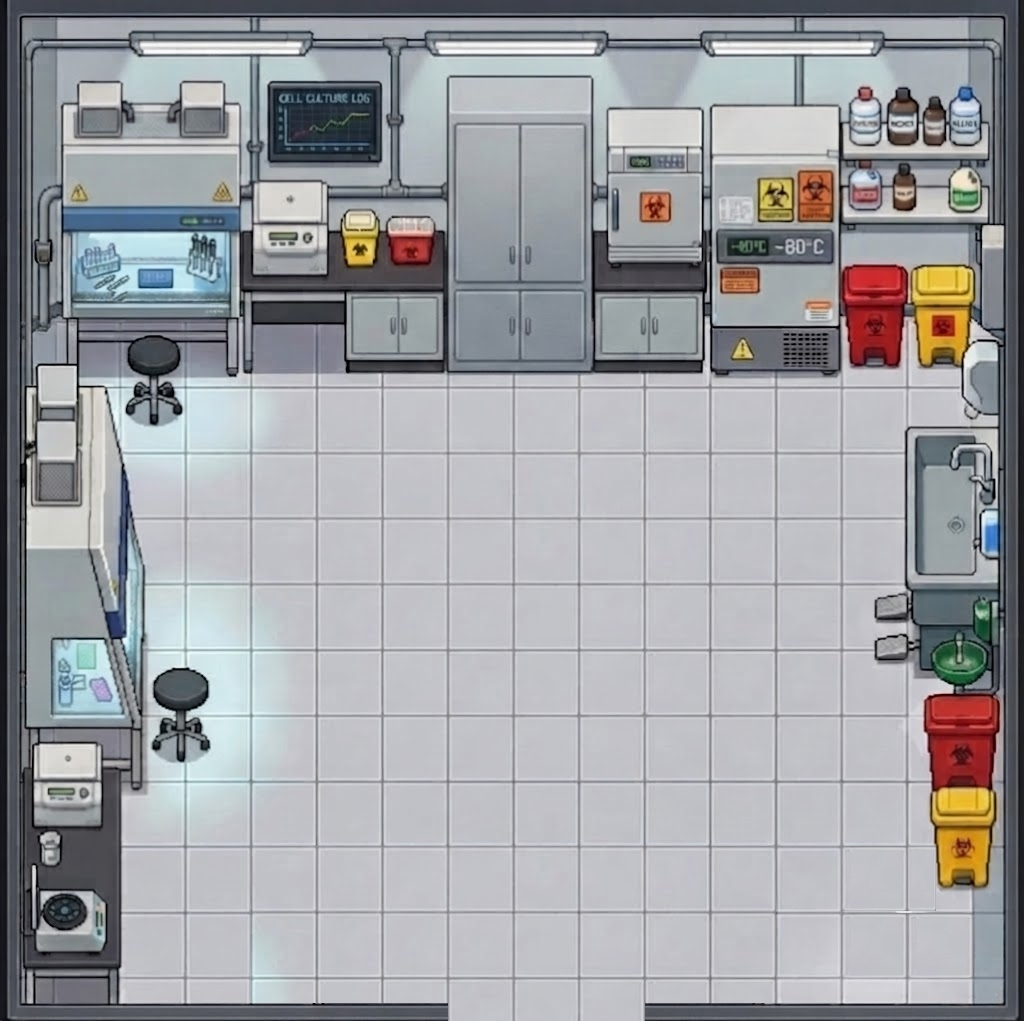
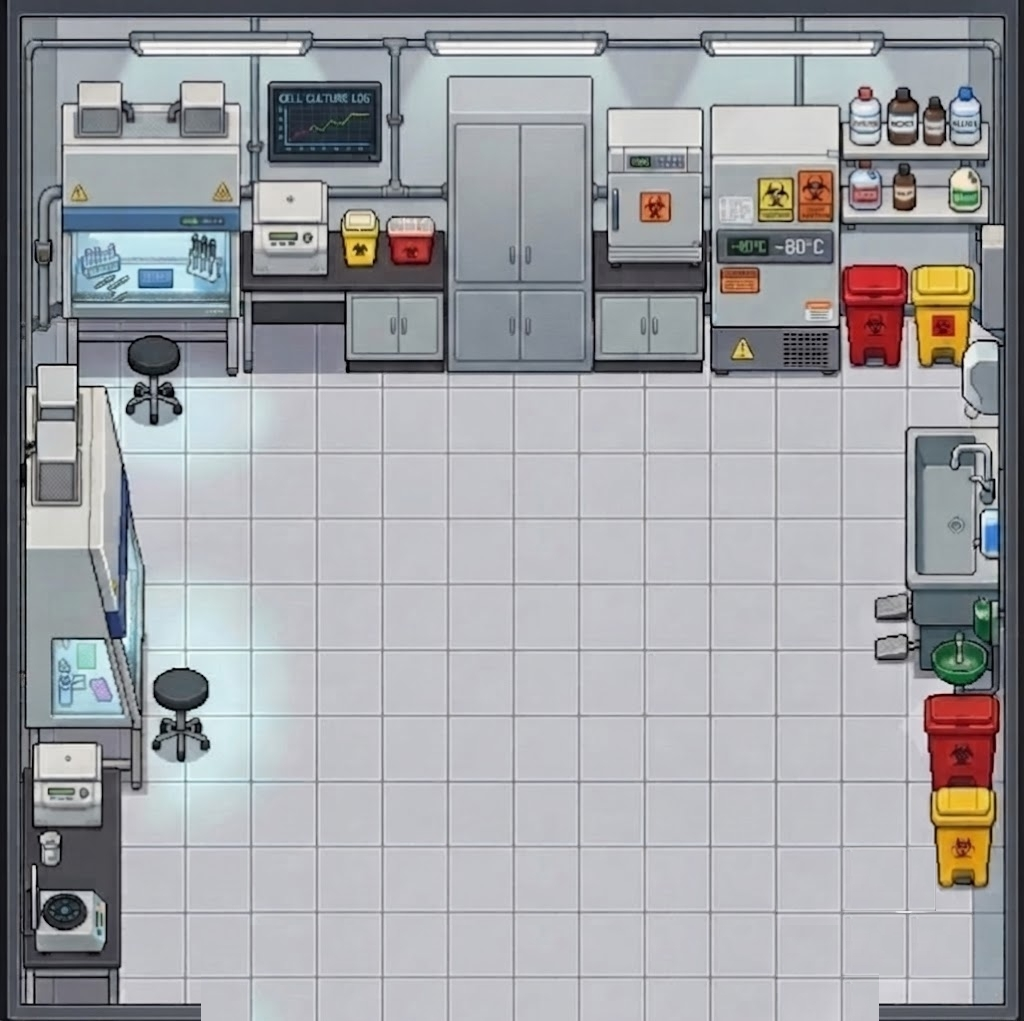
Add BSL rooms 2 and 4 visual background

Changed region(s): [[0.1875, 0.9412, 0.4375, 1.0], [0.625, 0.9716, 0.875, 1.0]]

diff --git a/frontend/src/game/scenes/rooms.js b/frontend/src/game/scenes/rooms.js
@@ -216,6 +216,29 @@ export function createRooms(scene) {
         { key: 'BSL-4', x: 960, y: 0, width: 320, height: 250 },
     ];
 
+    // Draw the BSL-2 background image
+    const bsl2 = scene.bslRoomZones.find(zone => zone.key === 'BSL-2');
+
+    scene.add.image(bsl2.x, bsl2.y, 'bsl2_room')
+        .setOrigin(0, 0)
+        .setDisplaySize(bsl2.width, bsl2.height)
+        .setDepth(-5);
+
+    window.__gameData = {
+        ...window.__gameData,
+        lectureRoomZone: scene.lectureRoomZone,
+        ppeRoomZone: scene.ppeRoomZone,
+        bslRoomZones: scene.bslRoomZones,
+    };
+
+    // Draw the BSL-4 background image
+    const bsl4 = scene.bslRoomZones.find(zone => zone.key === 'BSL-4');
+
+    scene.add.image(bsl4.x, bsl4.y, 'bsl4_room')
+        .setOrigin(0, 0)
+        .setDisplaySize(bsl4.width, bsl4.height)
+        .setDepth(-5);
+
     window.__gameData = {
         ...window.__gameData,
         lectureRoomZone: scene.lectureRoomZone,

diff --git a/frontend/src/game/scenes/main_scene.js b/frontend/src/game/scenes/main_scene.js
@@ -73,12 +73,19 @@ class MainScene extends Phaser.Scene {
     }
 
     preload() {
+        // Player base
         this.load.image('player_base', 'assets/player/base.png');
+
+        // Equipment
         this.load.image('lab_coat', 'assets/equipment/equipment_on_character/lab_coat.png');
         this.load.image('mask', 'assets/equipment/equipment_on_character/mask.png');
         this.load.image('glasses', 'assets/equipment/equipment_on_character/glasses.png');
         this.load.image('dresser', 'assets/dresser.png');
         this.load.image('wood', 'assets/tiles/birchwood.png');
+
+        // Rooms
+        this.load.image('bsl2_room', 'assets/rooms/BSL-2.jpg');
+        this.load.image('bsl4_room', 'assets/rooms/BSL-4 ver. 2.png');
     }
 
     createWoodFloor() {
@@ -97,9 +104,11 @@ class MainScene extends Phaser.Scene {
                     ctx.drawImage(woodSrc, 0, 0, srcW, srcH, 0, 0, tileSize, tileSize);
                     tileTexture.refresh();
                 } else {
+                    // eslint-disable-next-line no-console
                     console.warn('wood source image not available when creating wood_tile');
                 }
             } else {
+                // eslint-disable-next-line no-console
                 console.warn('wood texture not found when creating wood_tile');
             }
         }